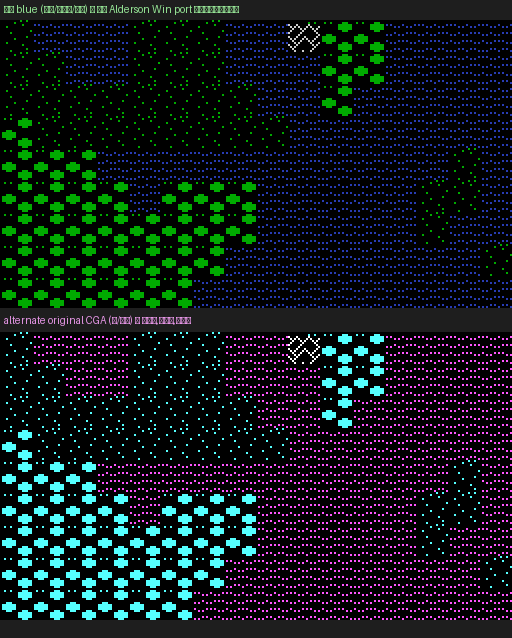
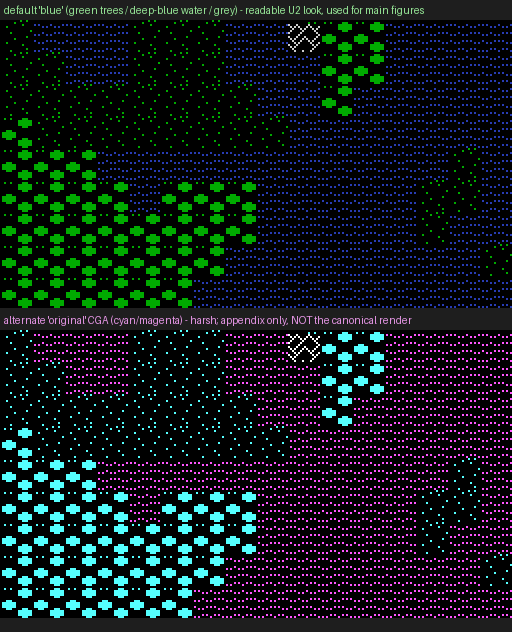
修截圖 CJK 方塊 + tile 標籤改保守 ground-truth
1. caption/label 全改 ASCII(原 PIL 預設字型無 CJK,GitHub 上顯示方塊)
   terrain_in_context / tileset_terrain_decoded / palette_compare 三圖重生
2. tile↔terrain-type 最小可驗證 ground-truth(用 mapx20/mapx21 分布 + 形狀 + 參考):
   高信心才標 — 0 water(overworld 海洋主體+不可通行)/ 3 forest(密集植被)/
   4 mountain(白對角格紋)/ 1,2 grass / 25,27,28 person / 31 fill
   其餘(含疑似 ship/sword)一律標 unknown,不臆測
3. DATA_FORMATS 補保守 tile 標註說明

驗證:run_tests 15/15

diff --git a/docs/DATA_FORMATS.md b/docs/DATA_FORMATS.md
@@ -31,8 +31,13 @@
 - **palette(誠實標示)**:byte 值僅是 2-bit color **index**(0/1/2/3),實際顏色由 palette 決定 —— **本專案非「像素級重現某 DOS 模式」,而是選一組可讀的 U2 視覺**:
   - 預設 **`blue`** = 黑 / 綠樹 / 深藍水 / 灰白(取樣自 Alderson Win port 綠樹參考畫面之色調;主圖用此)。
   - `red`(綠樹/紅水)、`original`(青/洋紅,DOS CGA)為 **alternate**,較刺眼,僅附錄/比較([`screenshots/palette_compare.png`](screenshots/palette_compare.png)),**非**「正確完成圖」。
-  - ⚠ tile↔terrain-type 對照(哪個 id 是 water/forest/mtn)目前為**推測標註**,尚未對逐 tile 與 DOS 畫面做完整 ground-truth 比對。
-- 對照圖:[`screenshots/terrain_in_context.png`](screenshots/terrain_in_context.png)(實際 map render,預設 palette)、[`screenshots/tileset_terrain_decoded.png`](screenshots/tileset_terrain_decoded.png)(id 0–31 grid)。
+- **tile↔terrain-type(最小 ground-truth,保守)**:僅標高信心者,其餘標 `unknown`(不臆測):
+  - `id 0 = water`(overworld mapx20 佔 2897/4224 = 海洋主體 + 不可通行 + 藍色 index);
+  - `id 3 = forest`(密集植被-index dither = 參考圖綠樹叢);
+  - `id 4 = mountain`(白色對角格紋,對應 DOS 山脈圖樣);
+  - `id 1,2 = grass`(稀疏植被-index);`id 25/27/28 = person`(人形);`id 31 = fill`(純白)。
+  - 其餘 id(含疑似 ship/sword 等)**未確認 → `unknown`**;完整逐 tile 比對待後續。
+- 對照圖(caption 全 ASCII,無 CJK 方塊):[`screenshots/terrain_in_context.png`](screenshots/terrain_in_context.png)(實際 map render)、[`screenshots/tileset_terrain_decoded.png`](screenshots/tileset_terrain_decoded.png)(id 0–31 + 保守標籤)、[`screenshots/palette_compare.png`](screenshots/palette_compare.png)(blue vs CGA)。
 
 ## font/招牌字 ⚠(id 32+,**raw/未對齊** — 非必要,招牌走翻譯)
 - DOS 招牌(如 `TRANSPORT` / `ZONE` / `TORTURE` / `IOLO`)實際為**黑底白字、橫排於矩形牌匾的 16×16 地圖 tile 字型**(每字母一格);bottom UI(`CMD:` / `H.P.` / `GOLD`)為**另一套小字型**,兩者分開。
